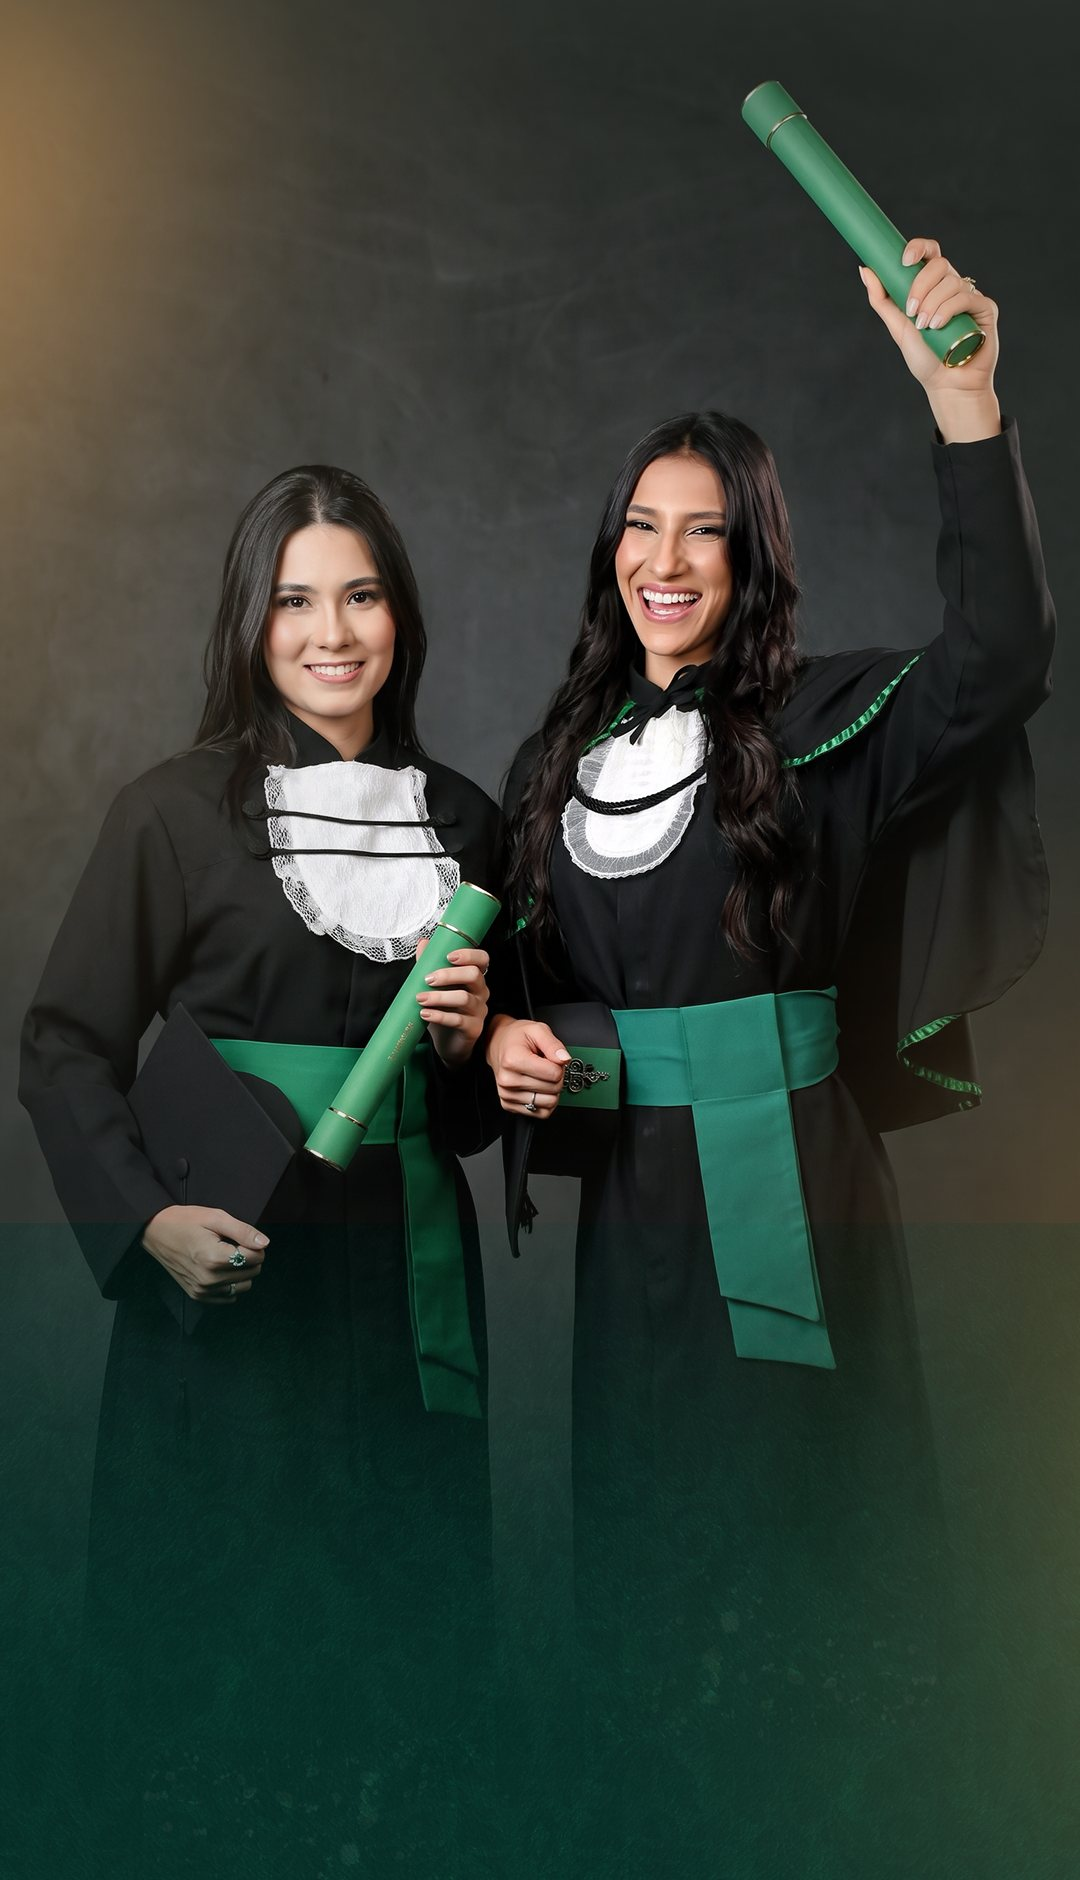
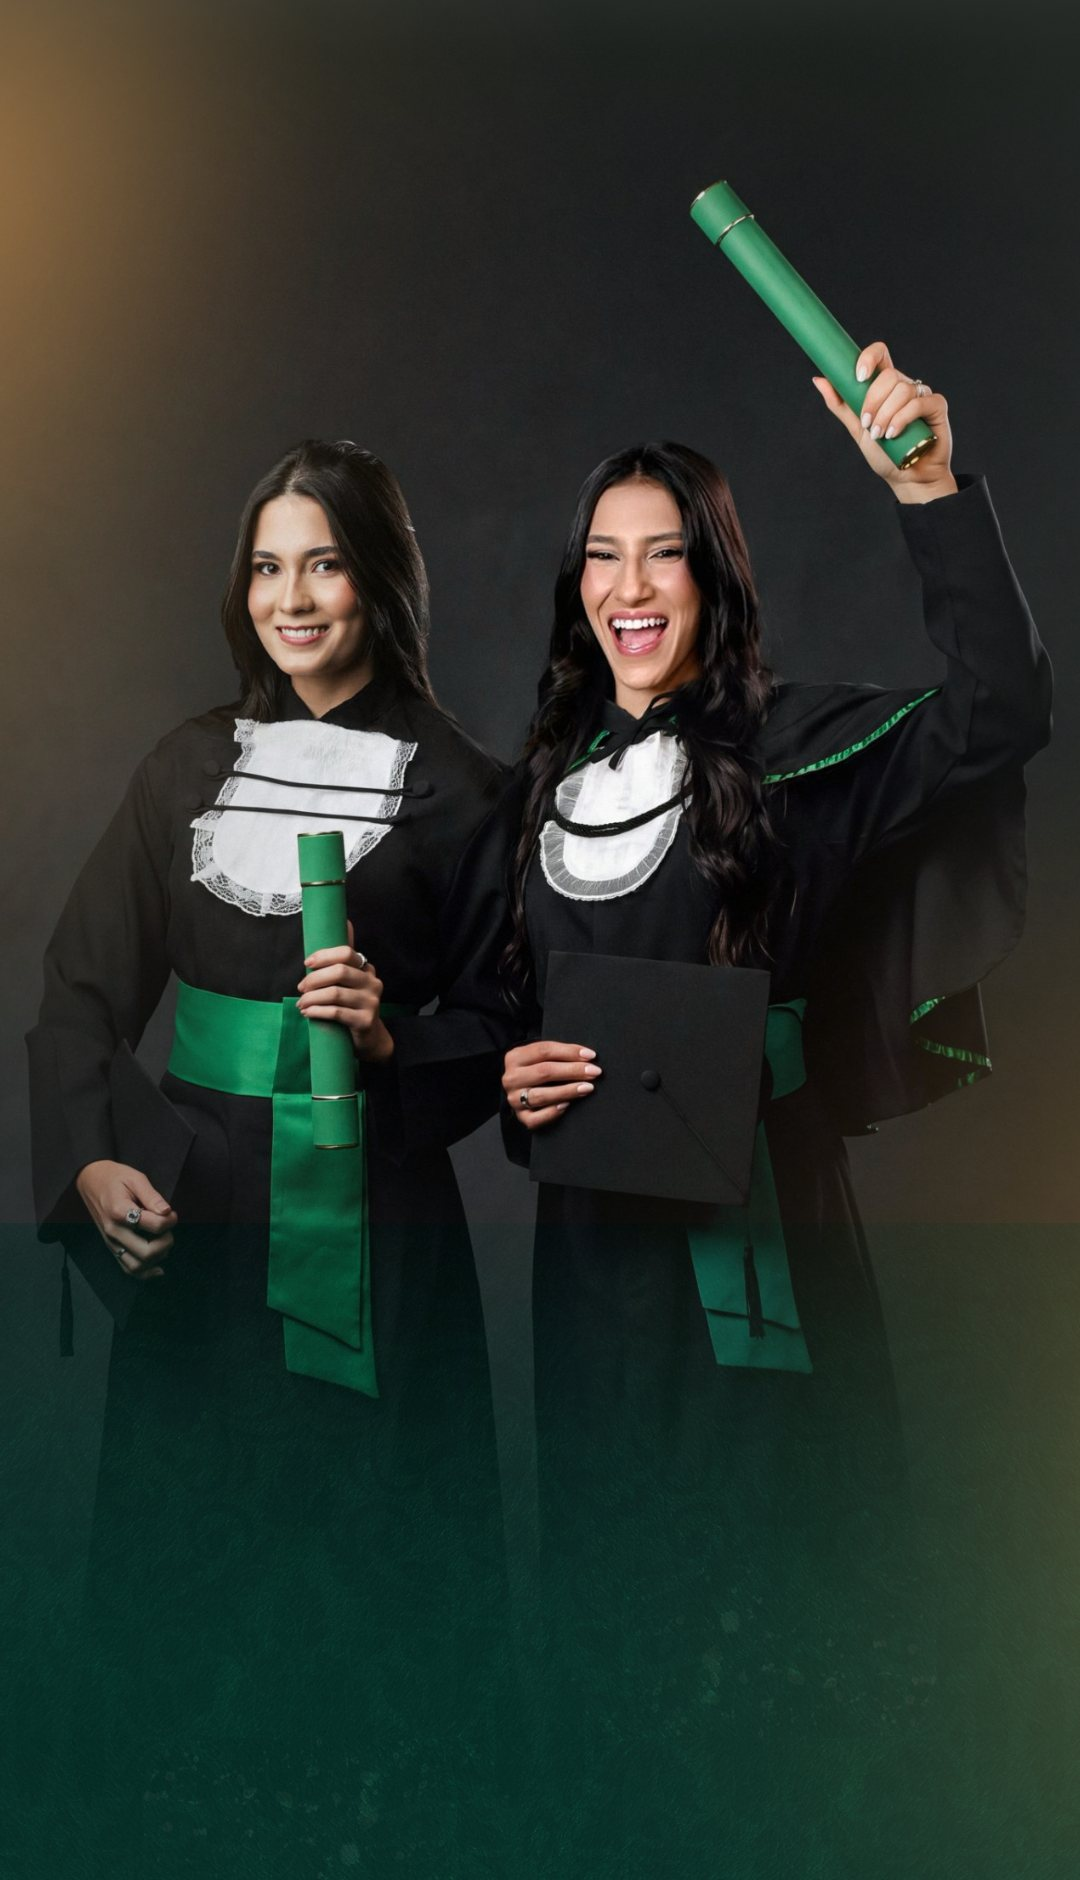
Nova foto das formandas e nota da cor verde no dress code
Claude-Session: https://claude.ai/code/session_01QqVtgw29r9hGeGLJrGb6dA

diff --git a/index.html b/index.html
@@ -21,7 +21,7 @@
 <link rel="icon" href="img/og.jpg">
 <link rel="preconnect" href="https://fonts.googleapis.com">
 <link rel="preconnect" href="https://fonts.gstatic.com" crossorigin>
-<link href="https://fonts.googleapis.com/css2?family=Cinzel:wght@400;500&family=Cinzel+Decorative:wght@400;700&family=Cormorant+Garamond:wght@400;500&display=swap" rel="stylesheet">
+<link href="https://fonts.googleapis.com/css2?family=Cinzel:wght@400;500&family=Cinzel+Decorative:wght@400;700&family=Cormorant+Garamond:ital,wght@0,300;0,400;0,500;1,300;1,400&display=swap" rel="stylesheet">
 <link rel="preload" href="img/capa.jpg" as="image">
 <style>
   :root{--verde:#0b3a2c;--verde-txt:#0e3a2d;--ouro:#c9a040;--ouro-esc:#80611f;--u:0.36px}
@@ -79,6 +79,7 @@
   .balanca{width:100%;height:100%;animation:balanca 6s ease-in-out infinite alternate;will-change:transform}
   @keyframes balanca{from{transform:rotate(calc(var(--a) * -1))}to{transform:rotate(var(--a))}}
   .texto p{text-align:center;color:#f6f6f4;font-family:"Cormorant Garamond",Georgia,serif;font-weight:300;font-style:italic;font-size:calc(var(--u)*56.5);line-height:1.28}
+  .nota p{text-align:center;color:#f6f6f4;font-family:"Cormorant Garamond",Georgia,serif;font-weight:300;font-style:italic;font-size:calc(var(--u)*42);line-height:1.2}
   .botao{cursor:pointer;border-radius:50%}
   .botao:active img{transform:scale(.95)}
   .botao.vis::after{content:"";position:absolute;inset:0;border-radius:50%;animation:pulso 2.6s ease-in-out infinite}
@@ -203,6 +204,7 @@
 <div class="ov flor" data-fx="flor" data-d="0" style="left:0.0000%;top:64.3075%;width:23.5185%;aspect-ratio:254/520"><div class="balanca" style="transform-origin:0% 75%;--a:1.3deg;animation-duration:6.6s;animation-delay:-4.0s"><img src="img/lirio6.webp" alt="" decoding="async"></div></div>
 <div class="ov " data-fx="sobe" data-d="0" style="left:26.2963%;top:72.4472%;width:44.8148%;aspect-ratio:484/56" ><span class="in"><img src="img/dress.webp" alt="Dress code" decoding="async"><i class="brilho" style="-webkit-mask-image:url(img/dress.webp);mask-image:url(img/dress.webp)"></i></span></div>
 <div class="ov " data-fx="sobe" data-d="350" style="left:36.1111%;top:73.7883%;width:27.8704%;aspect-ratio:301/31" ><span class="in"><img src="img/esporte.webp" alt="Esporte fino" decoding="async"></span></div>
+<div class="ov nota" data-fx="sobe" data-d="550" style="left:0;top:74.6514%;width:100%"><span class="in"><p>Cor verde exclusiva para as formandas</p></span></div>
 <div class="ov " data-fx="sobe" data-d="0" style="left:26.2963%;top:77.2275%;width:50.0926%;aspect-ratio:541/80" ><span class="in"><img src="img/local.webp" alt="Localização" decoding="async"><i class="brilho" style="-webkit-mask-image:url(img/local.webp);mask-image:url(img/local.webp)"></i></span></div>
 <div class="ov " data-fx="sobe" data-d="300" style="left:17.9630%;top:78.8740%;width:63.9815%;aspect-ratio:691/118" ><span class="in"><img src="img/endereco.webp" alt="Cerimonial Caminho das Árvores, Alameda das Framboesas, 151 - Caminho das Árvores, Salvador - BA" decoding="async"></span></div>
 <div class="ov " data-fx="sobe" data-d="200" style="left:15.4630%;top:81.7023%;width:69.1667%;aspect-ratio:747/444" ><span class="in"><img src="img/foto.webp" alt="Fachada do Cerimonial Caminho das Árvores" decoding="async"></span></div>
